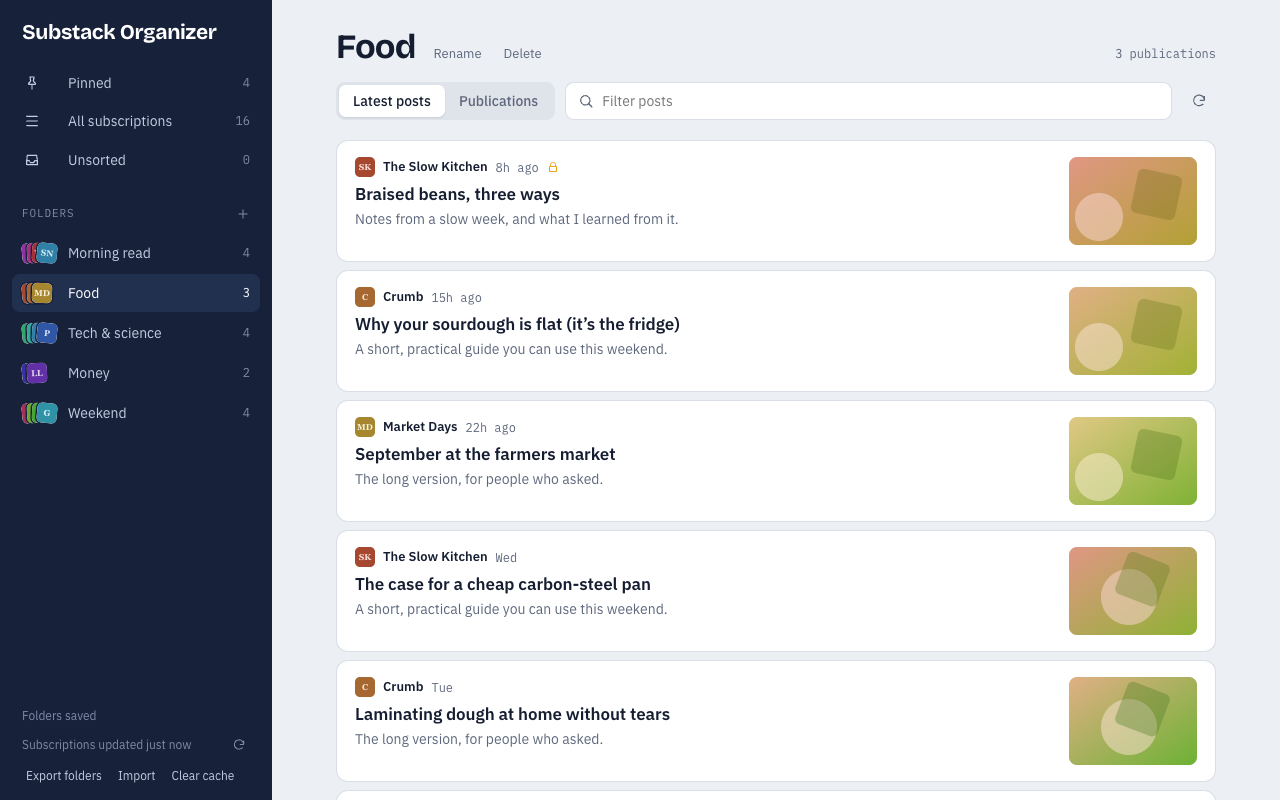
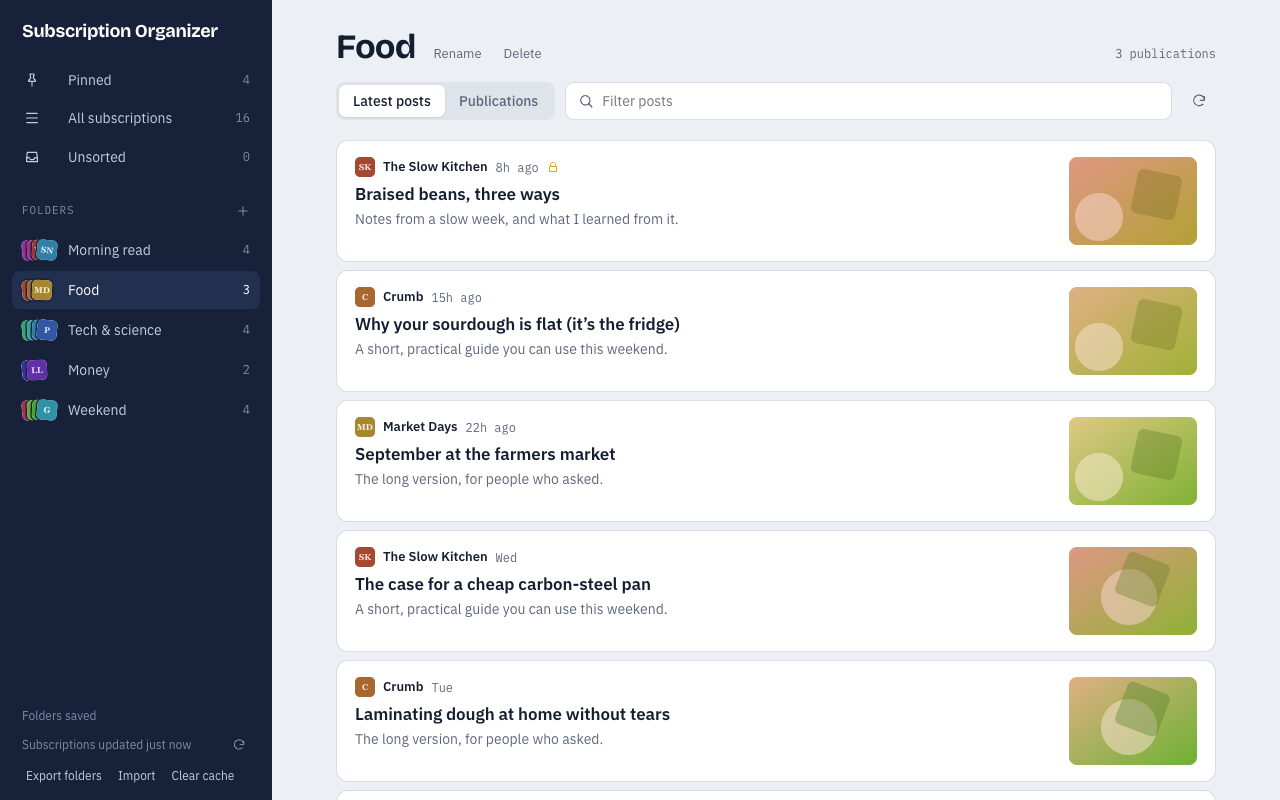
Rename to Subscription Organizer for Substack
Amp-Thread-ID: https://ampcode.com/threads/T-01a0e472-0a02-777c-acd6-8e94f77ab058

diff --git a/entrypoints/reader/App.tsx b/entrypoints/reader/App.tsx
@@ -1,6 +1,6 @@
 import { useCallback, useEffect, useMemo, useRef, useState, type ReactNode } from 'react';
 import { acceptNotice, cachedSubscriptions, clearSubstackCache, noticeAccepted, recentPosts, refreshSubscriptions, type FeedResult } from '@/lib/cache';
-import { FULL_NAME, PRIVACY_URL } from '@/lib/brand';
+import { APP_NAME, PRIVACY_URL } from '@/lib/brand';
 import { emptyLibrary, unsortedIds, type LibraryOp } from '@/lib/library';
 import { getLibraryDoc, mutateLibrary, watchLibraryDoc } from '@/lib/library-client';
 import type { LibraryDoc } from '@/lib/store';
@@ -186,7 +186,7 @@ export default function App() {
   if (notice === 'unknown') return <FullPage title="Loading…" />;
   if (notice === 'show') {
     return (
-      <FullPage title={`Before ${FULL_NAME} loads your subscriptions`}>
+      <FullPage title={`Before ${APP_NAME} loads your subscriptions`}>
         <ul className="notice-list">
           <li>
             <strong>What it reads.</strong> Using your Substack login in this browser, it reads the list of publications you subscribe to

diff --git a/lib/brand.ts b/lib/brand.ts
@@ -2,13 +2,13 @@
 // `pnpm build && pnpm store-assets` to refresh the store images.
 
 /** Short name, used in the sidebar wordmark. */
-export const APP_NAME = 'Substack Organizer';
+export const APP_NAME = 'Subscription Organizer';
 
 /**
  * Store and manifest name. Naming the product first and Substack after ("X for
  * Substack") avoids implying the extension is made by Substack.
  */
-export const FULL_NAME = APP_NAME;
+export const FULL_NAME = `${APP_NAME} for Substack`;
 
 /** Manifest description: 132 characters at most. */
 export const DESCRIPTION = 'Sort your Substack subscriptions into folders and pin the ones you read most.';

diff --git a/entrypoints/reader/index.html b/entrypoints/reader/index.html
@@ -3,7 +3,7 @@
   <head>
     <meta charset="UTF-8" />
     <meta name="viewport" content="width=device-width, initial-scale=1.0" />
-    <title>Substack Organizer</title>
+    <title>Subscription Organizer for Substack</title>
     <link rel="icon" type="image/svg+xml" href="/icon.svg" />
     <link rel="icon" type="image/png" sizes="32x32" href="/icon/32.png" />
   </head>

diff --git a/entrypoints/reader/style.css b/entrypoints/reader/style.css
@@ -51,8 +51,9 @@ a { color: inherit; }
   overflow-y: auto;
 }
 .wordmark {
-  font: 700 21px/1 var(--display);
+  font: 700 18px/1 var(--display);
   letter-spacing: -0.02em;
+  white-space: nowrap;
   color: #fff;
   padding: 0 10px 22px;
 }

diff --git a/PRIVACY.md b/PRIVACY.md
@@ -2,7 +2,7 @@
 
 _Last updated: September 27, 2026_
 
-This policy covers the Substack Organizer browser extension ("the extension"). The extension is an independent project. It is not made, endorsed or supported by Substack.
+This policy covers the Subscription Organizer for Substack browser extension ("the extension"). The extension is an independent project. It is not made, endorsed or supported by Substack.
 
 ## Summary
 

diff --git a/store/LISTING.md b/store/LISTING.md
@@ -15,7 +15,7 @@ Upload `dist/substack-organizer-0.1.0-chrome.zip`.
 
 ## Store listing tab
 
-**Name** comes from the manifest: Substack Organizer
+**Name** comes from the manifest: Subscription Organizer for Substack
 
 **Summary** (from the manifest, 132 characters max):
 
